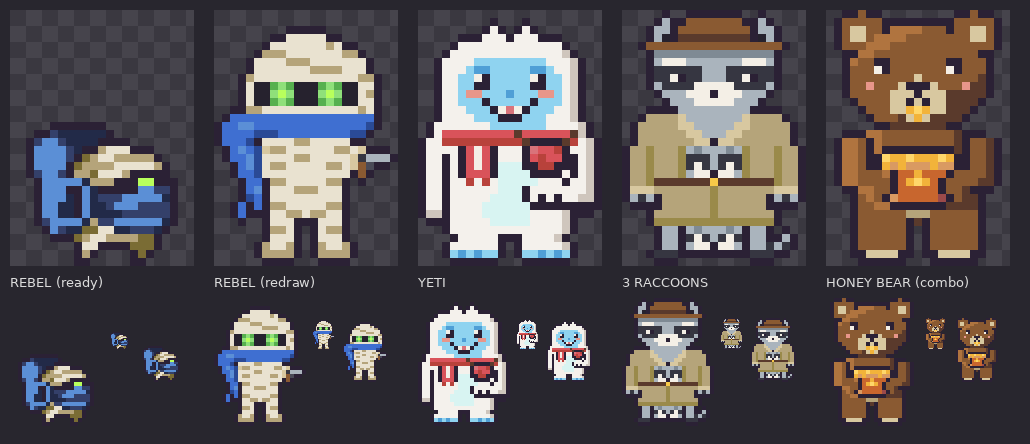
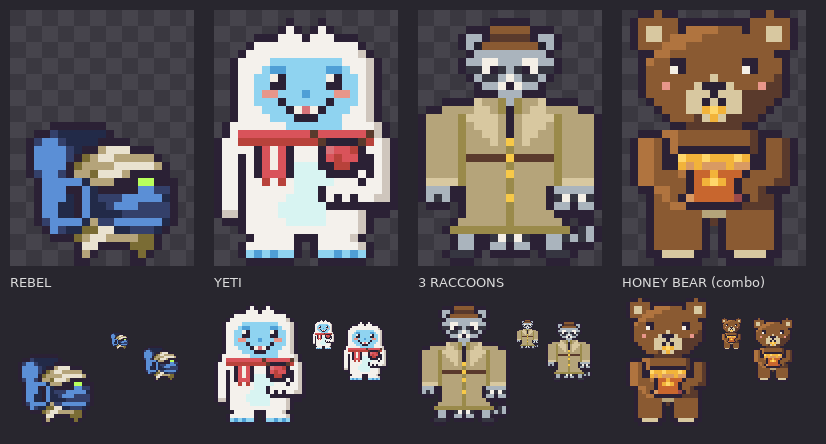
Rebel: use the player's ready sprite; Yeti approved; raccoons redrawn with small faces in sleeve and under the hem
Claude-Session: https://claude.ai/code/session_01KJgdEacmF4pmV3aZmvXK3o

diff --git a/drafts/workers-rebel-yeti-raccoons.js b/drafts/workers-rebel-yeti-raccoons.js
@@ -1,14 +1,11 @@
-// Черновик сотрудников: Рейбел, Йети, Три енота в плаще. В игру ещё не вставлены, ждут одобрения. Перки и скиллы ещё обсуждаются (docs/employees.md, раздел «План: Рейбел, Йети, Три енота в плаще»).
+// Черновик сотрудников: Рейбел, Йети, Три енота в плаще. В игру ещё не вставлены. Рейбел и Йети одобрены, еноты ждут одобрения. Перки и скиллы ещё обсуждаются (docs/employees.md, раздел «План: Рейбел, Йети, Три енота в плаще»).
 // Спрайты 23×32, RLE как в game/index.html. Новых цветов в PAL нет. Превью drafts/rebel-yeti-raccoons-preview.png (справа для сравнения Медаедь, у Йети с ним комбо).
 
-// ===== Рейбел (Nuclear Throne), вариант 1: готовый спрайт от игрока, цвета подогнаны под PAL. Он 19×18, ниже остальных, стоит внизу кадра =====
-  const REBEL_READY = ['23.', '23.', '23.', '23.', '23.', '23.', '23.', '23.', '23.', '23.', '23.', '23.', '23.', '23.', '5.7k11.', '3.2k,6\'k10.', '2.k,2K,4\'4k8.', '2.k4K,\'2kF3x3k5.', '2.k4K,kjF2x5Fk4.', '2.k4Kkj4F5xFk3.', '2.k,2K,k2Fj3xF5k3.', '3.k5K\'3F3k2|3k2.', '3.k3K2kK\'5k2K2,k2.', '3.k3K\'kK\'3,5K\'k2.', '3.k2K2\'kK2\',3K4,k2.', '3.k2K2\'kK4\'6,k2.', '3.k,4K\'F2,6K\'k2.', '4.kK,2\'2j2x2\'3,\'k3.', '5.3kjF2x4F2jk4.', '8.k2x4k3jk4.', '8.kFk4.kjk5.', '8.2k5.2k6.'];
-
-// ===== Рейбел, вариант 2: перерисована в полный рост. Голова в бинтах, большие светящиеся зелёные глаза в тёмной щели, синий шарф закрывает рот и развевается влево, бинты по всему телу, револьвер в руке =====
-  const REBEL = ['23.', '23.', '9.5k9.', '7.2k5x2k7.', '6.k7xFx2k5.', '5.k3F7x2Fk4.', '4.k4x3F7xk3.', '4.k7x4F3xk3.', '3.kF13x2Fk2.', '3.kx2b:;:3b:;:2b2xk2.', '3.kx2b;|;3b;|;2bxFk2.', '3.kx2b:;:3b:;:2b2xk2.', '2.2k2F12xFxk2.', '.k18@k2.', 'k2@2K14@#k2.', 'k4@3#9@2#k3.', 'k3@#k4x2F5x2k4.', '.k@K@#f2F6x2Fxf3k.', '.k2@K#4x2F5xfG3ak', '2.k@K#x2F5x2FxfCg2k.', '2.k2@#11xkCk3.', '3.k2@k2F5x2Fk.k4.', '3.k@Kk3x3F3xk6.', '3.k#@k9xk6.', '2.k@k@k2F5x2Fk6.', '2.k@3k2x2Fx2F2xk6.', '3.k2.k3x3k3xk6.', '6.k2Fxk.kx2Fk6.', '6.k3xk.k3xk6.', '5.kF2xFk.kF2xFk5.', '5.k4Fk.k4Fk5.', '6.4k3.4k6.'];
+// ===== Рейбел (Nuclear Throne): готовый спрайт от игрока, цвета подогнаны под PAL. Он 19×18, ниже остальных, стоит внизу кадра =====
+  const REBEL = ['23.', '23.', '23.', '23.', '23.', '23.', '23.', '23.', '23.', '23.', '23.', '23.', '23.', '23.', '5.7k11.', '3.2k,6"k10.', '2.k,2K,4"4k8.', '2.k4K,"2kF3x3k5.', '2.k4K,kjF2x5Fk4.', '2.k4Kkj4F5xFk3.', '2.k,2K,k2Fj3xF5k3.', '3.k5K"3F3k2|3k2.', '3.k3K2kK"5k2K2,k2.', '3.k3K"kK"3,5K"k2.', '3.k2K2"kK2",3K4,k2.', '3.k2K2"kK4"6,k2.', '3.k,4K"F2,6K"k2.', '4.kK,2"2j2x2"3,"k3.', '5.3kjF2x4F2jk4.', '8.k2x4k3jk4.', '8.kFk4.kjk5.', '8.2k5.2k6.'];
 
 // ===== Йети: добрый, белая пушистая шерсть с голубым животом, голубое лицо, большие глаза с бликами, румянец, широкая улыбка с клыком. Красный вязаный шарф и в лапе клубок красной пряжи со спицами: вяжет шарф для Медаедя =====
   const YETI = ['23.', '9.k3.k9.', '8.kWk.kWk8.', '5.3k3Wk3W3k5.', '4.k13Wk4.', '3.k14WDk3.', '2.k4W9?3WDk2.', '2.k3W?2_5?2_?2WDk2.', '2.k2W2?wk5?wk2?WDk2.', '2.k2W2?2k5?2k2?WDk2.', '2.k2W?2c3?_3?2c?WDk2.', '2.k2W3?k5?k3?WDk2.', '2.k3W3?kwEwk3?2WDk2.', '2.k4W3?3k3?3WDk2.', '.k7W7?4WDk.', '.kW9RB6RBDk.', 'k2W10rB4kBrWDk', 'k4WkRwRk3WkE2Rrk2WDk', 'k2WkWkRwRk3WkRr2R2kWDk', 'k2WkWkRwRk3[2k2r3kWDk', 'k2WkWk3Rk4[4kWkWDk', 'k2Wk2WrWrW5[3Wk2WDk', 'k2Wk6W3[k7WDk', 'k2Wk5W4[kWkWk2W2Dk', 'k2Wk4W6[9k', 'k2Dk4W6[4WD3k.', '.3k5W5[4WDk3.', '3.k14WDk3.', '4.k5W3k4WDk4.', '3.k6Wk.k5WDk3.', '3.k?_?_2?k.k2?_?_?k3.', '4.6k3.6k4.'];
 
-// ===== Три енота в плаще: верхний енот в шляпе-федоре торчит из воротника, средний выглядывает между пуговицами, нижний подсматривает из-под подола, из-под плаща торчит полосатый хвост =====
-  const RACCOONS = ['5.k2.7k2.k5.', '4.ka2k7C2kak4.', '3.k2ak9Ck2ak3.', '3.kabk9Bkbak3.', '2.k17Ck2.', '3.k15Ak3.', '3.ka3w7a3wak3.', '3.k6G3a6Gk3.', '3.k2Gwk2G3a2Gwk2Gk3.', '3.ka4G5w4Gak3.', '4.k3a3wk3w3ak4.', '5.k3a5w3ak5.', '3.4k9a4k3.', '2.k4Ff7af4Fk2.', '.k5F2f5a2f5Fk.', '.k6F2f3a2f6Fk.', '.k7F2fk2f7Fk.', 'k2FU3FUaA3aAaU3FU2Fk', 'k2FU3FU3Ga3GU3FU2Fk', 'k2FU3FUGwGaGwGU3FU2Fk', 'k2FU3FUa2wk2waU3FU2Fk', 'k2FU7BZ7BU2Fk', 'k3f7FU7F3fk', 'kaGak6FU6FkaGak', '.4k6FU6F4k.', '3.k7FU7Fk3.', '3.k15Uk3.', '4.k2akaA3aAak2ak.k2.', '4.k2akGwGaGwGk2a2kak.', '4.k2aka2wk2wak2aGaGk.', '3.k3G9k3G2k2.', '4.3k9.3k4.'];
+// ===== Три енота в плаще: маленькая голова верхнего енота в крошечной шляпе, уши торчат по бокам. Из правого рукава вместо лапы выглядывает мордочка второго, из-под подола между лапами третьего, сбоку полосатый хвост =====
+  const RACCOONS = ['23.', '9.5k9.', '6.3k5C3k6.', '5.k2ak5Bk2ak5.', '5.kab7Cbak5.', '6.k9ak6.', '5.k2a2w3a2w2ak5.', '5.k2GwkGaGkw2Gk5.', '6.ka2Gawa2Gak6.', '7.k2awkw2ak7.', '7.3k3a3k7.', '3.4kf2FUaU2Ff4k3.', '.2k4F2fFUkUF2f4F2k.', 'k4FU4fFkF4fU4Fk', 'k4FUF3fFkF3fFU4Fk', 'k4FU2F2fFkF2f2FU4Fk', 'k4FU3FfFZFf3FU4Fk', 'k4FU5FU5FU4Fk', 'k4FU5BZ5BU4Fk', 'k4FU5FU5FU4Fk', 'k4FU5FZ5FU4Fk', 'k4fU5FU5FU4fk', 'k3a2k5FU4Fk5ak', 'kaGa2k5FZ4FkGwGwGk', '.3k.k5FU4Fk2ak2ak', '5.k5FU5F5k.', '4.k6FU6Fk.2k.', '3.k15UkGak', '4.k2a2kGwGwG2k2aGaGak', '4.k2a2k2ak2a2k2a4k.', '3.k3Gk.5k.k3Gk3.', '4.3k9.3k4.'];

diff --git a/docs/employees.md b/docs/employees.md
@@ -139,10 +139,10 @@
 - **Пират:** треуголка с черепом, повязка на глазу. Вместо бороды к лицу присосался фиолетовый осьминог: глаза на подбородке, щупальца свисают на грудь. Серьга, синий камзол с золотом, крюк вместо руки, деревянная нога.
 - **Пчеловод:** полностью белый защитный костюм, шлем с полями и сеткой, лицо видно сквозь сетку, белые перчатки. В руке дымарь: жестяной бак с решёткой, крышка с изогнутым носиком, из него дым, сбоку деревянные меха. Рядом летают две пчёлы.
 
-## План: Рейбел, Йети, Три енота в плаще (спрайты ждут одобрения)
+## План: Рейбел, Йети, Три енота в плаще (Рейбел и Йети одобрены, еноты ждут одобрения)
 
 Спрайты в `drafts/workers-rebel-yeti-raccoons.js`, превью `drafts/rebel-yeti-raccoons-preview.png` (справа для сравнения Медаедь). Новых цветов в `PAL` нет. Статы, скиллы и когда приходят, ещё обсуждаются.
 
-- **Рейбел** (она, Nuclear Throne, референс и готовый спрайт от игрока). Два варианта: готовый спрайт 19×18 с цветами из `PAL` (ниже остальных, как Пёс Бро) и перерисовка в полный рост: голова в бинтах, большие светящиеся зелёные глаза в тёмной щели, синий шарф закрывает рот и развевается влево, бинты по всему телу, револьвер в руке.
-- **Йети:** добрый. Белая пушистая шерсть с голубым животом, голубое лицо, большие глаза с бликами, румянец, широкая улыбка с клыком. Красный вязаный шарф, в лапе клубок красной пряжи со спицами: вяжет шарф для Медаедя. Должен иметь комбо с Медаедем.
-- **Три енота в плаще:** бежевый тренч с поясом, верхний енот в шляпе-федоре торчит из воротника, средний выглядывает между пуговицами, нижний подсматривает из-под подола, сбоку торчит полосатый хвост. Перк (задан игроком): шанс 33% создать 3 товара вместо одного.
+- **Рейбел** (она, Nuclear Throne, референс от игрока): берём готовый спрайт от игрока, цвета подогнаны под `PAL`. Он 19×18, ниже остальных (как Пёс Бро) и стоит внизу кадра. Голова в бинтах, зелёный глаз, синий шарф. Спрайт одобрен.
+- **Йети:** добрый. Белая пушистая шерсть с голубым животом, голубое лицо, большие глаза с бликами, румянец, широкая улыбка с клыком. Красный вязаный шарф, в лапе клубок красной пряжи со спицами: вяжет шарф для Медаедя. Должен иметь комбо с Медаедем. Спрайт одобрен.
+- **Три енота в плаще:** бежевый тренч с поясом и золотыми пуговицами. Мордочки маленькие: голова верхнего енота в крошечной шляпе, уши торчат по бокам; из правого рукава вместо лапы выглядывает мордочка второго, из-под подола между лапами третьего, сбоку торчит полосатый хвост. Перк (задан игроком): шанс 33% создать 3 товара вместо одного.
